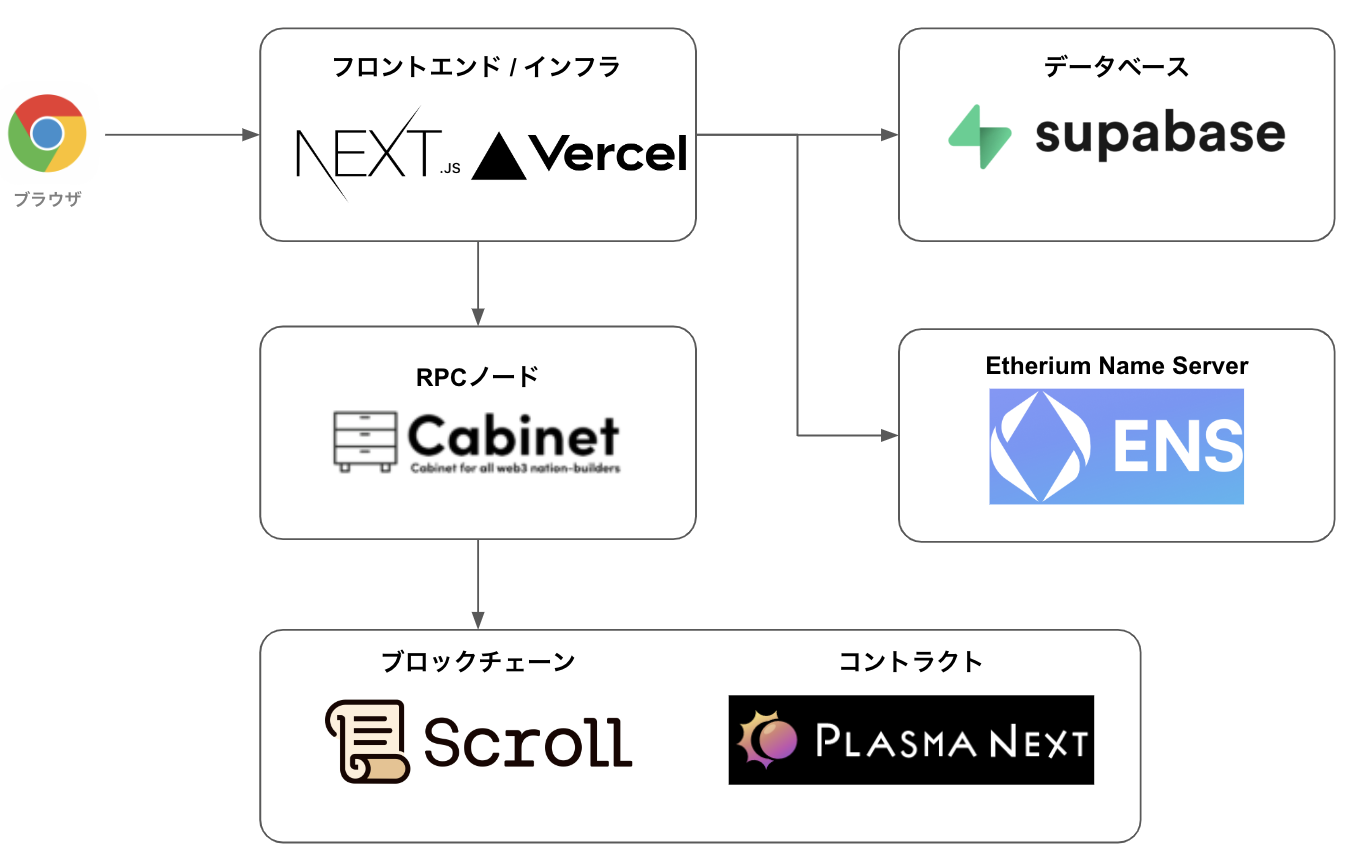
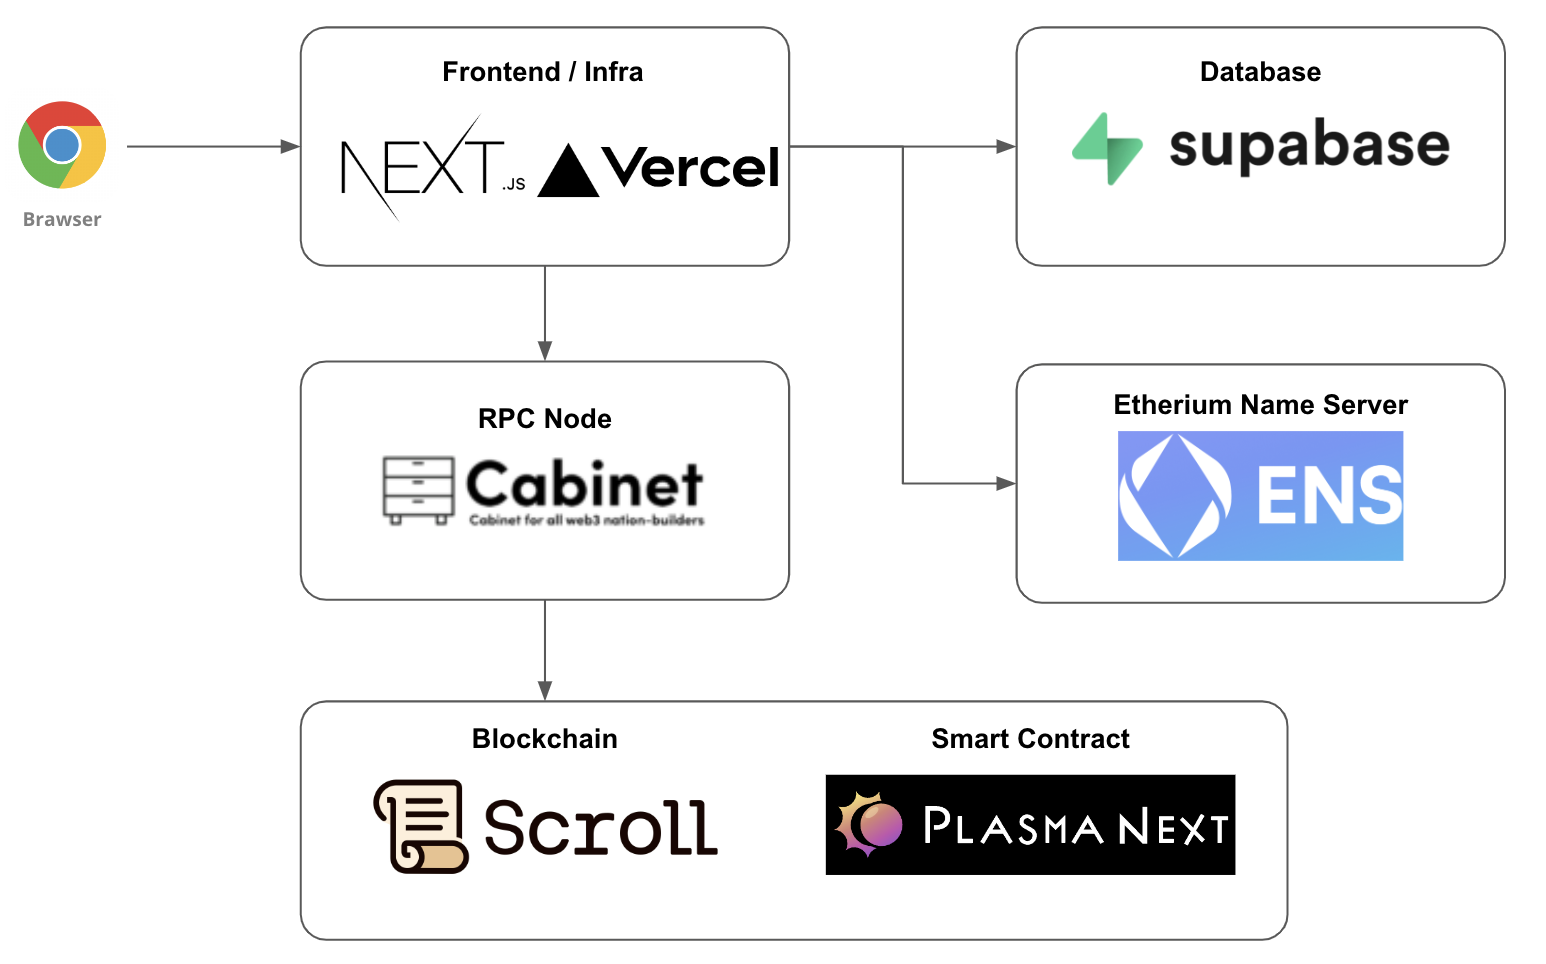
:books: translate english

diff --git a/README.md b/README.md
@@ -1,66 +1,66 @@
-# zkppay
+# ZKpaypay
 
-- [デモページ](https://zkpaypay.vercel.app/)
+- [Demo Page](https://zkpaypay.vercel.app/)
 
-デプロイは以下の fork されたリポジトリの更新を行い、Vercel にデプロイされます。
+Deployment is done by updating the forked repository below and deploying to Vercel.
 
-- [GitHub - sey323/zkppay-webapp: Vercel deploy 用のリポジトリ](https://github.com/sey323/zkppay-webapp)
+- [GitHub - sey323/zkpaypay-webapp: Repository for Vercel deployment](https://github.com/sey323/zkpaypay-webapp)
 
-## 概要
+## Overview
 
-### 全体構成
+### System Architecture
 
-全体構成は以下の通りです。本リポジトリは図中のフロントエンドに該当します。
+The overall architecture is as follows. This repository corresponds to the Frontend in the diagram.
 
-![全体構成](./docs/arch.png)
+![System Architecture](./docs/arch.png)
 
-コントラクトについては以下のリポジトリを参照してください。
+For information about contracts, please refer to the following repository.
 
 - [zkpaypay/zkpaypay-contracts · GitHub](https://github.com/zkpaypay/zkpaypay-contracts)
 
-### 利用技術
+### Technologies Used
 
-| 名称           | 用途                                 | URL                                           |
-| -------------- | ------------------------------------ | --------------------------------------------- |
-| Scroll Seporia | Plasma Next のコントラクトの実行基盤 | [scroll.io](https://scroll.io/)               |
-| Cabinet        | Scroll Seporia の RPC ノード         | [cabinet-node.com](https://cabinet-node.com/) |
-| ENS            | ウォレットアドレスの名前解決         | [ens.domains](https://ens.domains/)           |
-| rainbowkit     | ウォレット                           | [rainbowkit.io](https://rainbowkit.io/)       |
-| web3auth       | ウォレットプロバイダー               | [web3auth.io](https://web3auth.io/)           |
+| Technology     | Use                                     | URL                                           |
+| -------------- | --------------------------------------- | --------------------------------------------- |
+| Scroll Seporia | Execution base of Plasma Next Contracts | [scroll.io](https://scroll.io/)               |
+| Cabinet        | RPC Node for Scroll Seporia             | [cabinet-node.com](https://cabinet-node.com/) |
+| ENS            | Name resolution of wallet addresses     | [ens.domains](https://ens.domains/)           |
+| rainbowkit     | Wallet                                  | [rainbowkit.io](https://rainbowkit.io/)       |
+| web3auth       | Wallet provider                         | [web3auth.io](https://web3auth.io/)           |
 
 ## Quick Start
 
-`.env.local`を作成し、以下の環境変数を設定する。
+Create `.env.local` and set the following environment variables.
 
 ```bash
-# https://app.cabinet-node.com/ で発行したSeporia Scroll の RPC JSONのAPIキー
+# Seporia Scroll's RPC JSON API key issued at https://app.cabinet-node.com/
 NEXT_PUBLIC_CABINET_SCROLL_SEPORIA_RPC_JSON_API_KEY=${JSON API Key}
-# https://dashboard.web3auth.io/ で登録したアプリケーションの Client Secret
+# The Client Secret of the application registered at https://dashboard.web3auth.io/
 NEXT_PUBLIC_WEB3AUTH_CLIENT_ID=${Client ID}
 
-# Supabase の設定
+# Supabase settings
 NEXT_PUBLIC_SUPABASE_URL=${Supabase URL}
 NEXT_PUBLIC_SUPABASE_ANON_KEY=${Supabase Anon Key}
 ```
 
-以下のコマンドで開発環境を起動する。
+Launch the development environment with the following command.
 
 ```bash
 npm run dev
 ```
 
-## 利用技術
+## Technologies Used
 
 - web3auth
 - rainbowkit
 - scroll (Sepolia)
 - cabinet
 
-## 開発者向け
+## For Developers
 
-### supabase からスキーマの取得
+### Fetching the schema from supabase
 
-以下のコマンドを実行し、`database.types.ts`を生成する。
+Run the following command and generate `database.types.ts`.
 
 ```bash
 supabase gen types --lang=typescript --project-id xttxgubekhgwkbvseoxw --schema public > database.types.ts
